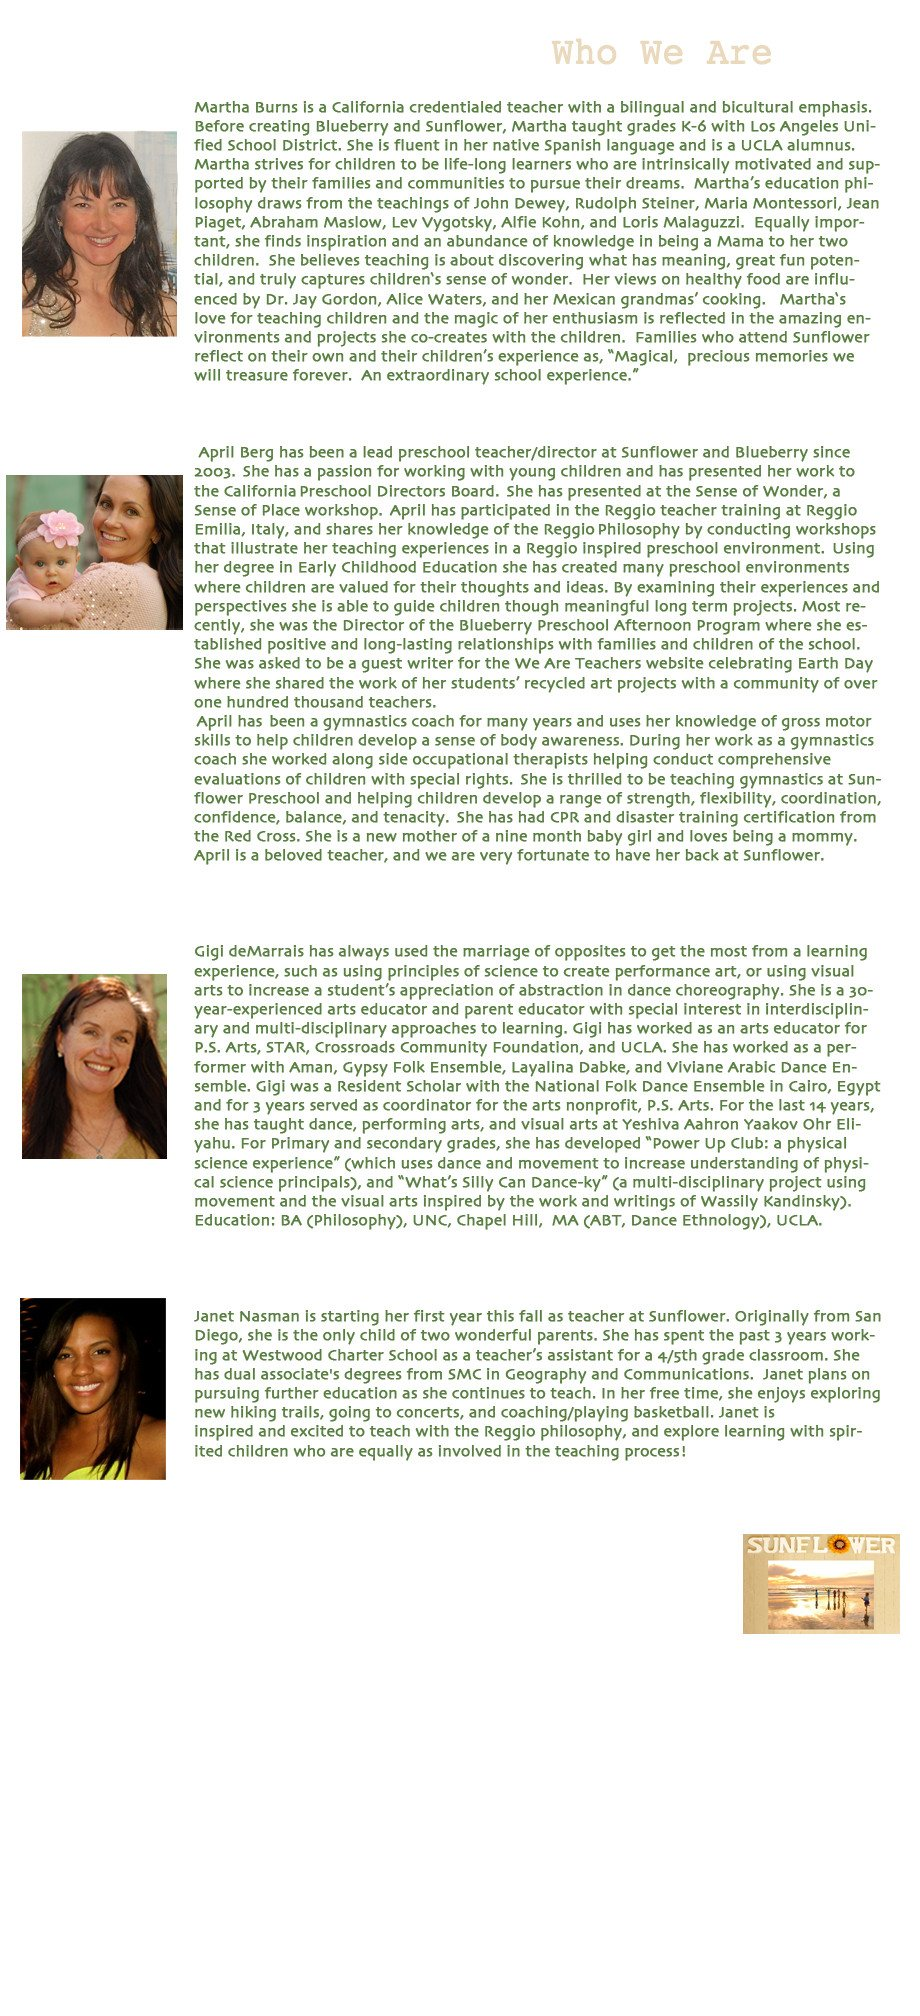
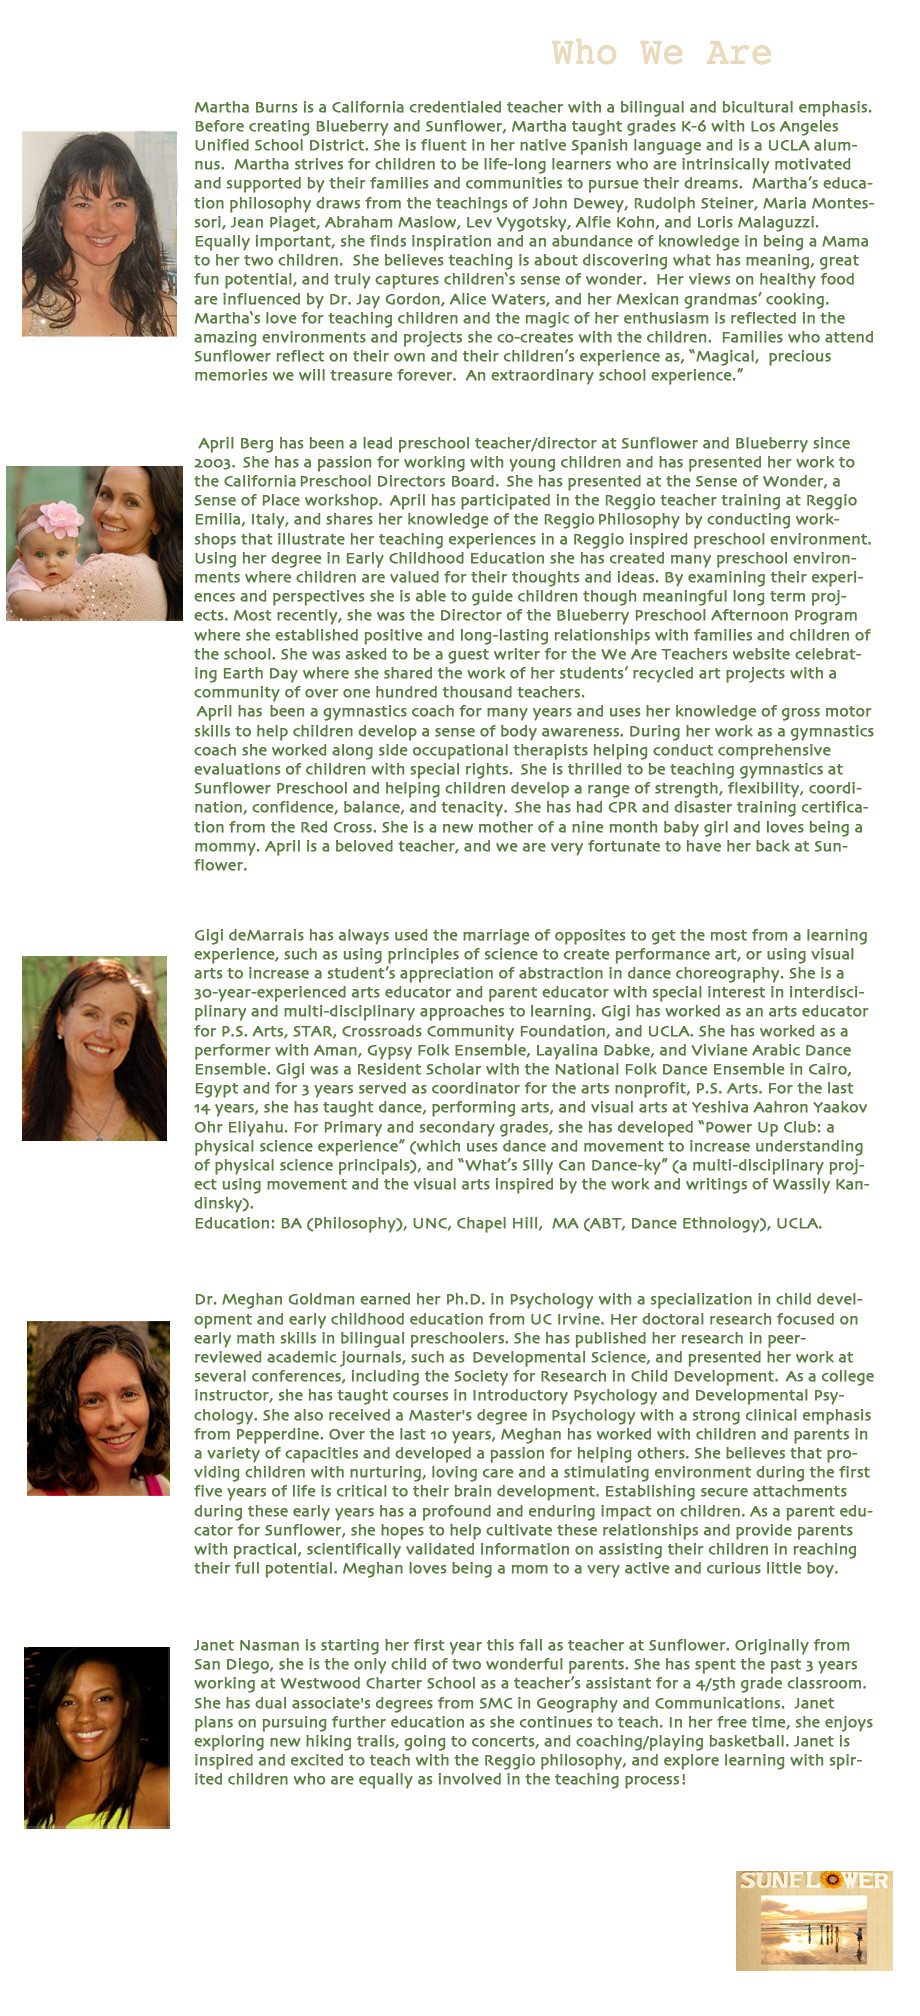
extra teacher on who_we_are

diff --git a/community/who_we_are/index.html b/community/who_we_are/index.html
@@ -22,7 +22,7 @@
 	<body>
 		<img src="../../img/community/who_we_are.jpg" alt="" usemap="#img_map">
 		<map name="img_map">
-			<area shape="rect" coords="740,1535,900,1630" href="../../" alt="">
+			<area shape="rect" coords="735,1870,890,1970" href="../../" alt="">
 		</map>
 		<div id="pocp1" class="pocp_left"><!-- BEGIN PULL OUT CONTENT PANEL -->
 
